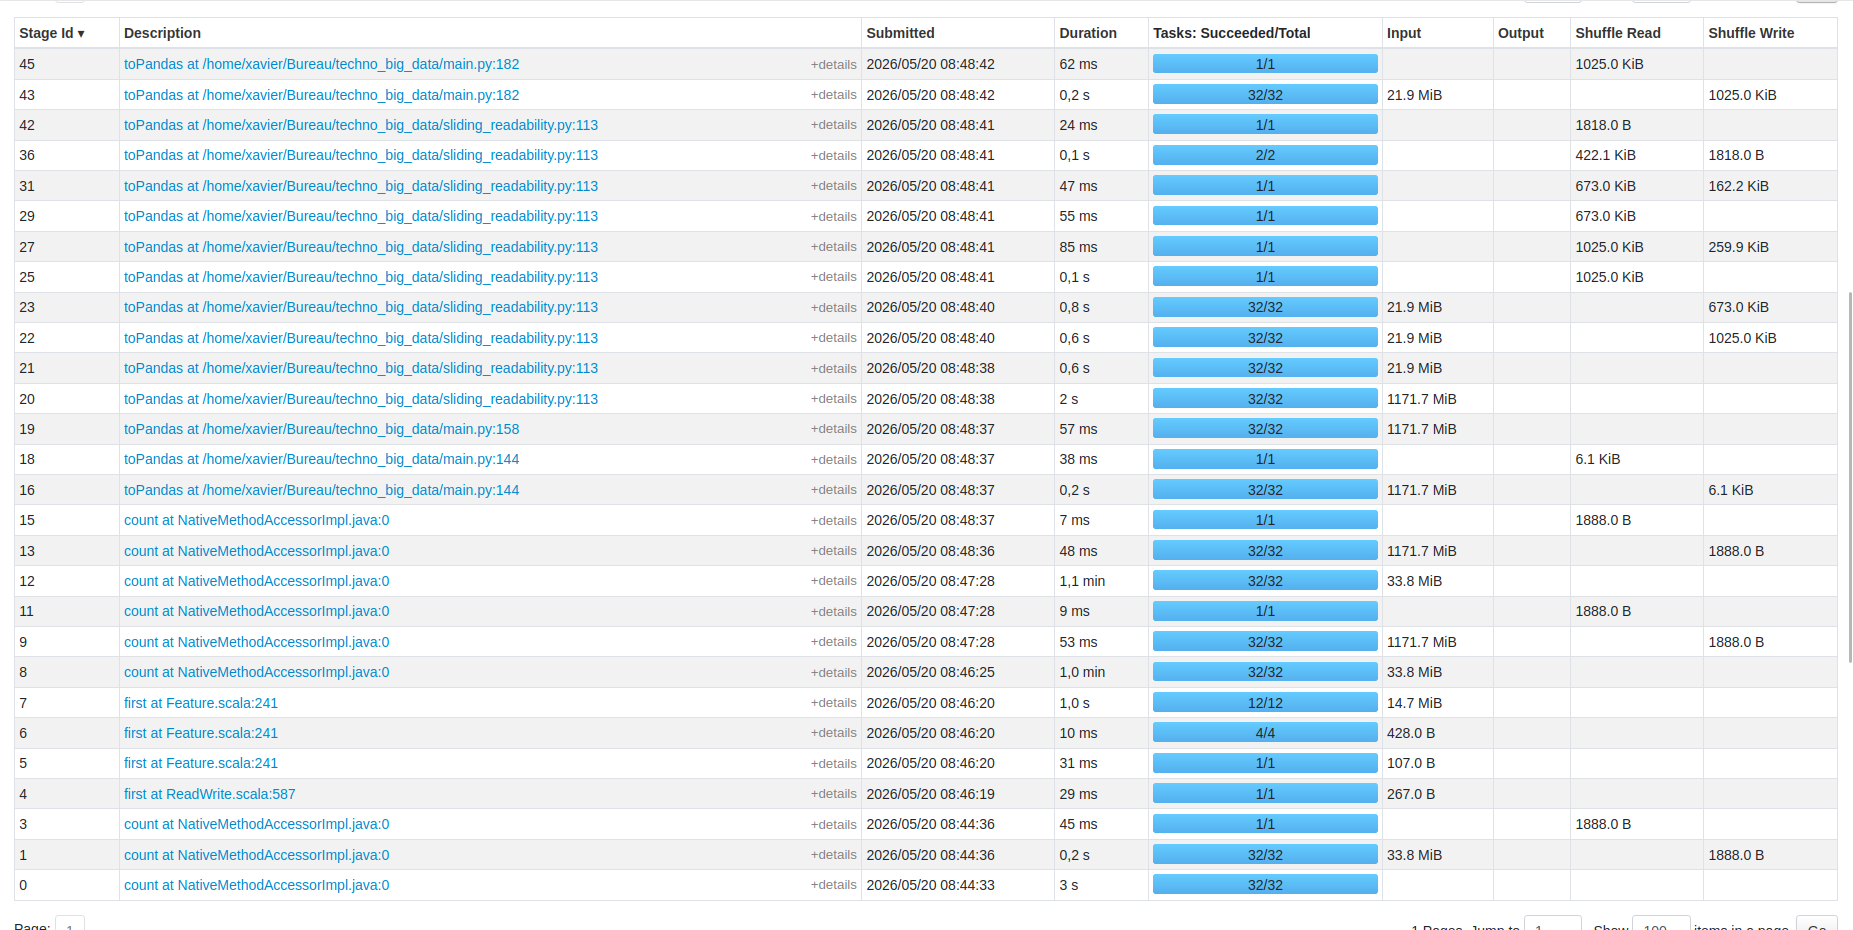
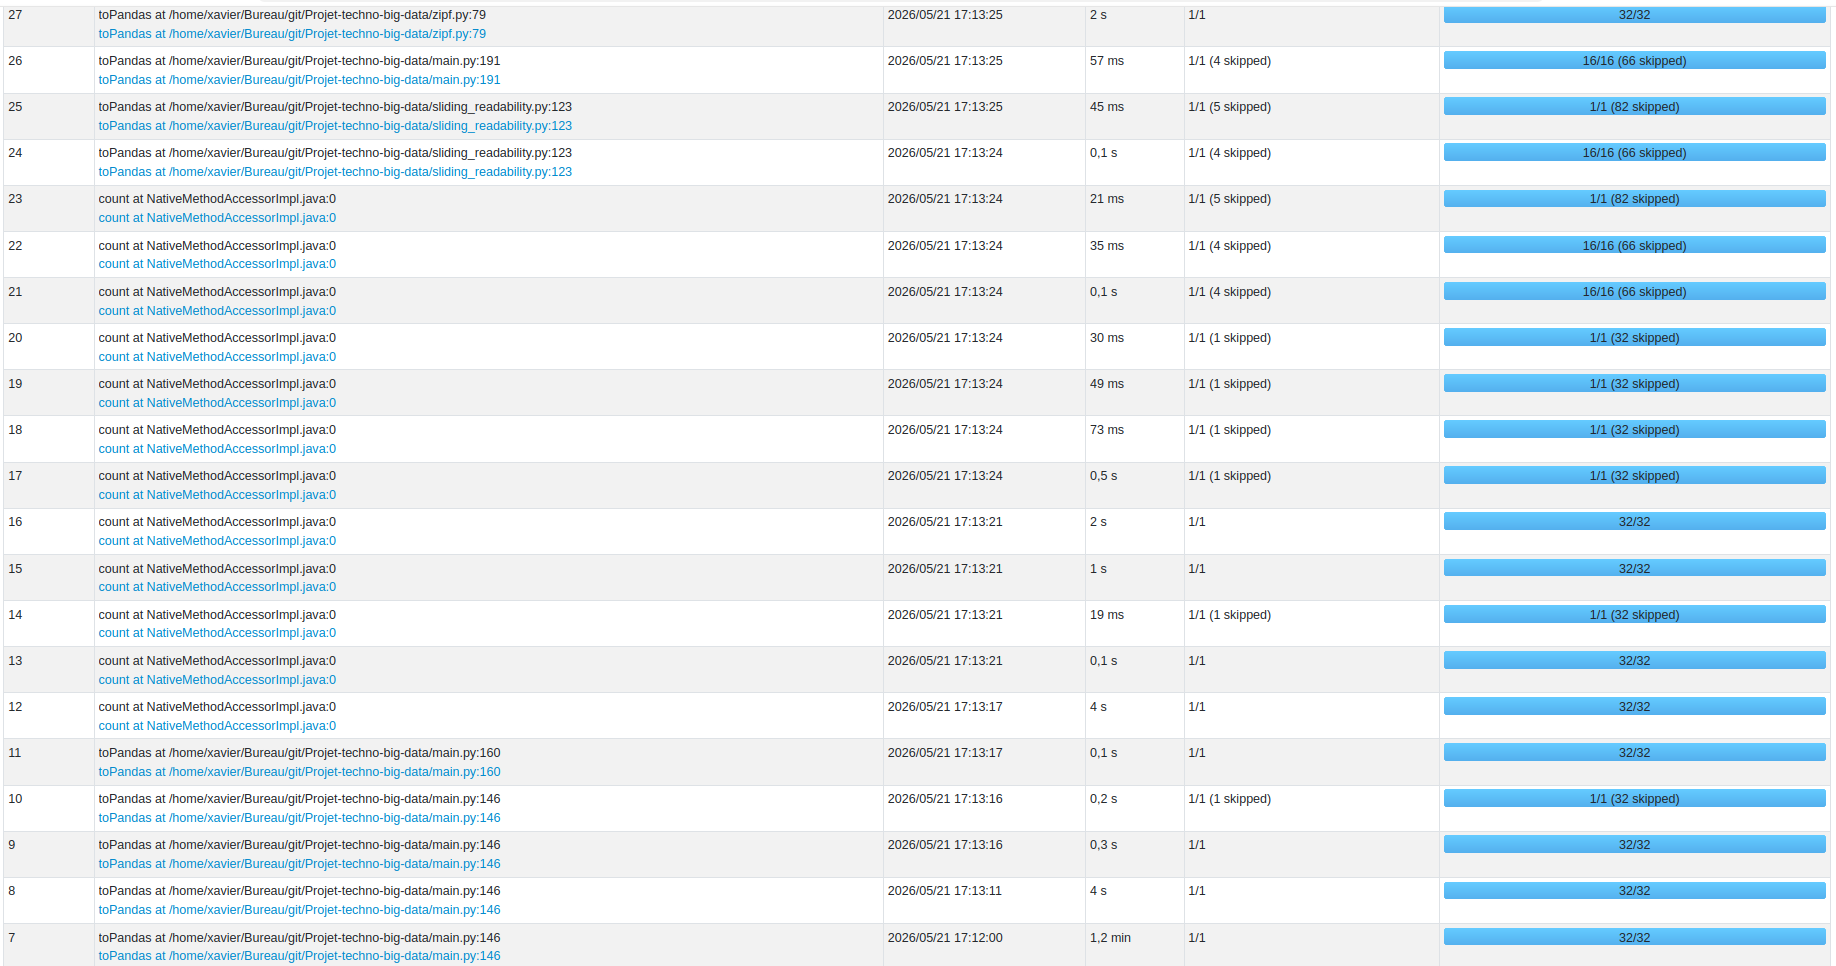
correctif optimisation mémoire

diff --git a/main.py b/main.py
@@ -83,7 +83,6 @@ annotated_df = model.transform(df).cache()  # mise en cache après la première 
 
 from pyspark.sql.functions import col, size, expr, avg
 
-_ = annotated_df.count()   # force la matérialisation du cache NLP
 
 
 # df n'est plus utilisé jusqu'à save_results ; on le dépersiste pour récupérer la mémoire.
@@ -133,7 +132,7 @@ annotated_df = annotated_df \
     ) \
     .cache()
 
-_ = annotated_df.count()   # force la matérialisation des nouveaux calculs
+  # force la matérialisation des nouveaux calculs
 
 # Agrégation par auteur × genre : moyennes des scores
 author_stats = annotated_df.groupBy("author", "genre").agg(